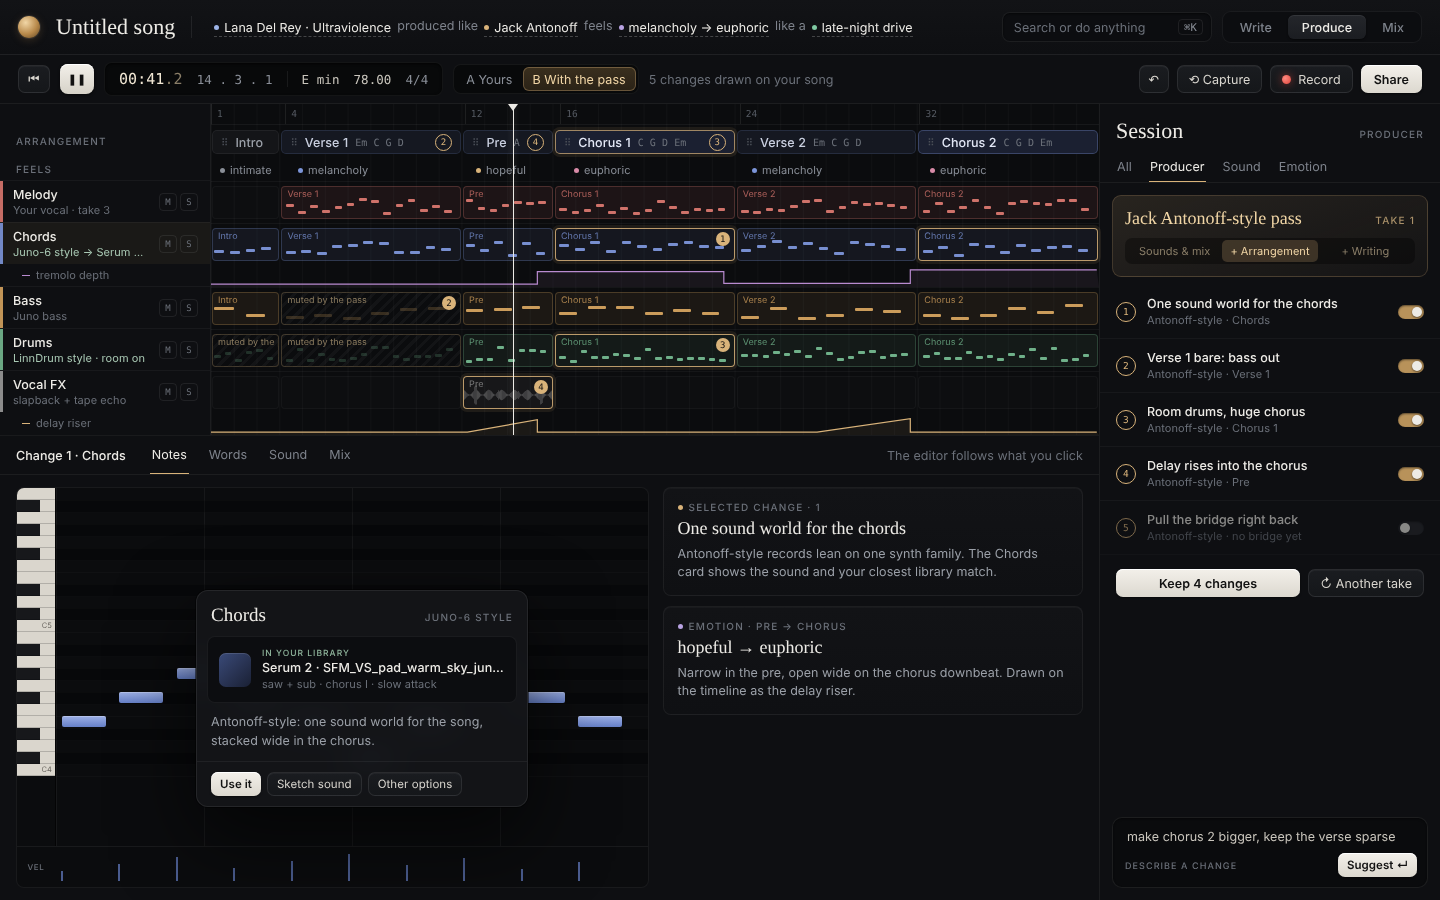
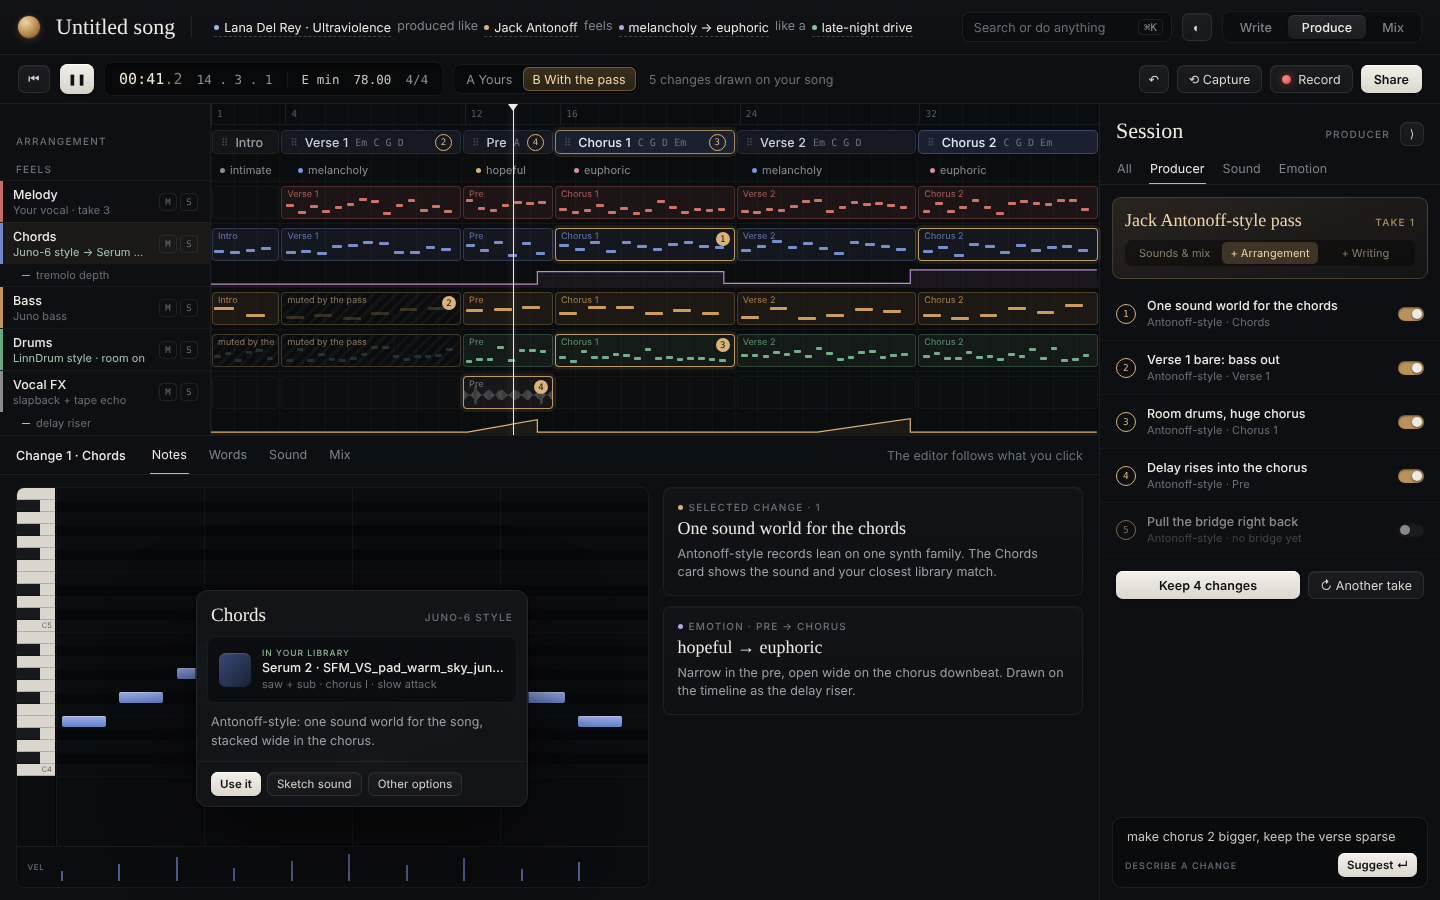
Design: five switchable themes (tokens in themes.json) and a collapsible Session panel
Claude-Session: https://claude.ai/code/session_01Gwi5mznyCGAVwjhLcrp4R8

diff --git a/docs/design/merged/reference.dc.html b/docs/design/merged/reference.dc.html
@@ -37,6 +37,7 @@ button{cursor:pointer}
     </div>
     <div style="margin-left: auto; display: flex; align-items: center; gap: 10px">
       <button style="height: 30px; width: 210px; padding: 0 8px 0 11px; border-radius: 8px; border: 1px solid rgba(255,255,255,.07); background: #0C0D10; color: #6B7079; display: flex; align-items: center; justify-content: space-between; box-shadow: inset 0 1px 2px rgba(0,0,0,.5)">Search or do anything<span class="mono" style="font-size: 10.5px; padding: 1px 5px; border-radius: 4px; border: 1px solid rgba(255,255,255,.08); color: #8A8F98">⌘K</span></button>
+      <button class="ghost" aria-label="Theme" title="Theme" style="width: 30px; padding: 0">◐</button>
       <div role="tablist" aria-label="Lens" style="display: flex; padding: 3px; gap: 2px; border-radius: 9px; background: #0C0D10; border: 1px solid rgba(255,255,255,.06)">
         <sc-for list="{{lenses}}" as="l" hint-placeholder-count="3">
           <button role="tab" aria-selected="{{l.on}}" style="height: 24px; padding: 0 14px; border-radius: 6px; border: 0; background: {{l.bg}}; color: {{l.ink}}; font-weight: 500; box-shadow: {{l.sh}}">{{l.name}}</button>
@@ -242,8 +243,20 @@ button{cursor:pointer}
     </main>
 
     <!-- 6 · session panel -->
-    <aside aria-label="Session" style="width: 340px; flex-shrink: 0; border-left: 1px solid rgba(255,255,255,.06); background: #0E0F12; display: flex; flex-direction: column">
-      <div style="padding: 14px 16px 0; display: flex; justify-content: space-between; align-items: baseline"><span class="serif" style="font-size: 22px">Session</span><span class="sm">{{feedNote}}</span></div>
+    <aside aria-label="Session" style="width: {{asideW}}px; flex-shrink: 0; border-left: 1px solid rgba(255,255,255,.06); background: #0E0F12; display: flex; flex-direction: column">
+      <sc-if value="{{rail}}" hint-placeholder-val="{{false}}">
+        <div style="display: flex; flex-direction: column; align-items: center; gap: 6px; padding: 12px 0; height: 100%; box-sizing: border-box">
+          <button class="ghost xs" aria-label="Open the Session panel" style="width: 28px; padding: 0">⟨</button>
+          <span style="width: 22px; height: 1px; background: rgba(255,255,255,.06); margin: 6px 0"></span>
+          <sc-for list="{{rail}}" as="r" hint-placeholder-count="4">
+            <button title="{{r.name}}" style="position: relative; width: 34px; height: 34px; border-radius: 9px; border: 1px solid rgba(255,255,255,.06); background: #121316; color: {{r.color}}; font-size: 14px">{{r.icon}}<span class="mono" style="position: absolute; right: -4px; top: -4px; min-width: 15px; height: 15px; border-radius: 999px; background: {{r.color}}; color: #141210; font-size: 9px; display: flex; align-items: center; justify-content: center">{{r.n}}</span></button>
+          </sc-for>
+          <button title="Describe a change" style="margin-top: auto; width: 34px; height: 34px; border-radius: 9px; border: 1px solid rgba(255,255,255,.08); background: #0A0B0D; color: #D9B37A">✦</button>
+        </div>
+      </sc-if>
+      <sc-if value="{{full}}" hint-placeholder-val="{{true}}">
+      <div style="display: flex; flex-direction: column; height: 100%">
+      <div style="padding: 14px 16px 0; display: flex; justify-content: space-between; align-items: baseline"><span class="serif" style="font-size: 22px">Session</span><span style="display: flex; align-items: center; gap: 10px"><span class="sm">{{feedNote}}</span><button class="ghost xs" aria-label="Collapse the Session panel" title="Collapse (⌥⌘S)" style="width: 24px; padding: 0">⟩</button></span></div>
       <div style="display: flex; gap: 16px; padding: 0 16px; margin-top: 8px; border-bottom: 1px solid rgba(255,255,255,.06)">
         <sc-for list="{{filters}}" as="f" hint-placeholder-count="4"><button style="height: 30px; padding: 0 1px; border: 0; border-bottom: 1.5px solid {{f.line}}; background: transparent; color: {{f.ink}}">{{f.name}}</button></sc-for>
       </div>
@@ -272,14 +285,37 @@ button{cursor:pointer}
         <input aria-label="Describe a change" value="{{ask}}" style="background: transparent; border: 0; color: #C9C5BC; outline: none">
         <div style="display: flex; justify-content: space-between; align-items: center"><span class="sm" style="font-size: 9px">Describe a change</span><button class="prim xs">Suggest ↵</button></div>
       </div>
+      </div>
+      </sc-if>
     </aside>
   </div>
+  <sc-if value="{{themes}}" hint-placeholder-val="{{false}}">
+    <div role="dialog" aria-label="Theme" style="position: absolute; right: 196px; top: 50px; width: 470px; border-radius: 12px; background: rgba(20,21,24,.94); backdrop-filter: blur(14px); border: 1px solid rgba(255,255,255,.08); box-shadow: 0 30px 80px rgba(0,0,0,.65), 0 0 0 1px rgba(0,0,0,.5); z-index: 5; overflow: hidden">
+      <div style="padding: 13px 14px 4px; display: flex; justify-content: space-between; align-items: baseline"><span class="serif" style="font-size: 19px">Theme</span><span class="sm">Saved on this computer</span></div>
+      <div style="display: grid; grid-template-columns: repeat(3, 1fr); gap: 8px; padding: 10px 12px">
+        <sc-for list="{{themes}}" as="t" hint-placeholder-count="5">
+          <div style="border-radius: 9px; padding: 5px; border: 1.5px solid {{t.ring}}; background: rgba(0,0,0,.2)">
+            <div style="height: 62px; border-radius: 6px; background: {{t.bg}}; position: relative; overflow: hidden; border: 1px solid rgba(255,255,255,.06)">
+              <span style="position: absolute; left: 6px; top: 6px; right: 26px; height: 7px; border-radius: 2px; background: {{t.panel}}"></span>
+              <span style="position: absolute; right: 6px; top: 6px; width: 16px; height: 7px; border-radius: 2px; background: {{t.accent}}"></span>
+              <span style="position: absolute; left: 6px; top: 20px; width: 42%; height: 12px; border-radius: {{t.r}}px; background: {{t.c1}}"></span>
+              <span style="position: absolute; left: 50%; top: 20px; width: 40%; height: 12px; border-radius: {{t.r}}px; background: {{t.c2}}; box-shadow: 0 0 0 1px {{t.accent}}"></span>
+              <span style="position: absolute; left: 6px; top: 37px; width: 60%; height: 12px; border-radius: {{t.r}}px; background: {{t.c3}}"></span>
+              <span style="position: absolute; left: 6px; bottom: 5px; font-family: {{t.font}}; font-size: 11px; color: {{t.ink}}">Aa</span>
+            </div>
+            <div style="display: flex; justify-content: space-between; align-items: center; padding: 6px 3px 2px"><span style="font-size: 11.5px">{{t.name}}</span><span style="font-size: 10px; color: #D9B37A">{{t.on}}</span></div>
+          </div>
+        </sc-for>
+      </div>
+      <div style="padding: 10px 14px; border-top: 1px solid rgba(255,255,255,.06); display: flex; justify-content: space-between; align-items: center; color: #9BA0A8"><span>Follow the system: light by day, dark at night</span><span style="width: 26px; height: 14px; border-radius: 999px; background: #24262B; position: relative; box-shadow: inset 0 1px 2px rgba(0,0,0,.5)"><span style="position: absolute; top: 2px; left: 2px; width: 10px; height: 10px; border-radius: 50%; background: #EDEBE6"></span></span></div>
+    </div>
+  </sc-if>
 </div>
 </x-dc>
 <script type="text/x-dc" data-dc-script data-props='{"$preview":{"width":1440,"height":900}}'>
 class Component extends DCLogic {
   renderVals() {
-    var LENS = '__LENS__'; var EXTRA = '__EXTRA__'; var L = EXTRA === 'loops';
+    var LENS = '__LENS__'; var EXTRA = '__EXTRA__'; var L = EXTRA === 'loops'; var COLL = EXTRA === 'collapsed';
     var P = LENS === 'produce', W = LENS === 'write', M = LENS === 'mix';
     var BRASS = '#D9B37A';
     var C = { prod: BRASS, doc: '#9DB4E8', snd: '#7FC9A2', emo: '#B9A3E3', mix: '#7FC9A2', loop: '#6CC3C3' };
@@ -355,8 +391,11 @@ class Component extends DCLogic {
       : W ? [F(1, 'doc', '“blue” lands on a weak beat', 'Song doctor', 'Verse 1', null, 'Fix'), F(2, 'doc', 'Hook shares the verse’s top note', 'Song doctor', 'Chorus 1', null, 'Lift'), F(3, 'doc', 'Write a bridge from its neighbours', 'Fill this gap', 'after Chorus 2', null, 'Write'), F(4, 'emo', 'Brighten one chord in the Pre', 'Emotion', 'Pre', null, 'Try')]
       : [F(1, 'mix', 'Bass vanishes on phones', 'Mix check', 'Chorus 1', null, 'Fix'), F(2, 'mix', 'Last chorus 2 dB under reference', 'Reference', 'Chorus 2', null, 'Match'), F(3, 'prod', 'Room on drums and backing vocals', 'Antonoff-style', 'whole song', null, 'Add'), F(4, 'emo', 'Gain lift on the euphoric downbeat', 'Emotion', 'Chorus 1', null, 'Draw')];
     var levels = [['Sounds & mix'], ['+ Arrangement', 1], ['+ Writing']].map(function (l) { var on = !!l[1]; return { name: l[0], bg: on ? 'rgba(217,179,122,.22)' : 'transparent', ink: on ? '#F1D6A6' : '#8A7E68' }; });
-    var pop = P && !L ? { title: 'Chords', sub: 'Juno-6 style', top: 486, lib: 'Serum 2 · SFM_VS_pad_warm_sky_juno106', recipe: 'saw + sub · chorus I · slow attack', why: 'Antonoff-style: one sound world for the song, stacked wide in the chorus.' } : false;
+    var pop = P && !L && !COLL ? { title: 'Chords', sub: 'Juno-6 style', top: 486, lib: 'Serum 2 · SFM_VS_pad_warm_sky_juno106', recipe: 'saw + sub · chorus I · slow attack', why: 'Antonoff-style: one sound world for the song, stacked wide in the chorus.' } : false;
+    var rail = COLL ? [['✎', 'Producer · 5 ideas', '#D9B37A', 5], ['✚', 'Song doctor · 2', '#9DB4E8', 2], ['◎', 'Sound finder · 1', '#7FC9A2', 1], ['♡', 'Emotion · 1', '#B9A3E3', 1]].map(function (r) { return { icon: r[0], name: r[1], color: r[2], n: r[3] }; }) : false;
+    var themes = COLL ? [['Studio Black', '#0A0B0D', '#16181C', '#D9B37A', 'rgba(124,149,217,.35)', 'rgba(124,149,217,.2)', 'rgba(217,119,111,.3)', 5, "'Instrument Serif'", '#EDEBE6', 1], ['Console', '#1B1B1B', '#3A3A3A', '#FFA22B', '#6AA6FF', '#FF6B5E', '#F7BA4C', 1, "'Inter'", '#E8E8E8'], ['Warm studio', '#120E0B', '#2A221B', '#E0915A', 'rgba(147,168,189,.4)', 'rgba(224,145,90,.3)', 'rgba(217,128,106,.35)', 5, "'Fraunces'", '#F3E9DA'], ['Daylight', '#F2F2F7', '#FFFFFF', '#0A84FF', 'rgba(88,86,214,.2)', 'rgba(52,199,89,.22)', 'rgba(255,59,48,.18)', 7, "'Inter'", '#1C1C1E'], ['Riso zine', '#EFE8DA', '#FBF7EE', '#FF4F8B', '#C9D4FF', '#FFD23F', 'rgba(255,79,139,.35)', 0, "'DM Serif Display'", '#1A1A1A']].map(function (t) { return { name: t[0], bg: t[1], panel: t[2], accent: t[3], c1: t[4], c2: t[5], c3: t[6], r: t[7], font: t[8], ink: t[9], ring: t[10] ? '#D9B37A' : 'transparent', on: t[10] ? '✓ On' : '' }; }) : false;
     return {
+      rail: rail, full: !COLL, asideW: COLL ? 58 : 340, themes: themes,
       recipe: recipe, lenses: lenses, sections: sections, tracks: tracks, drawer: drawer, roll: roll, keys: keys, strips: strips, side: side, filters: filters, feed: feed, levels: levels, pop: pop,
       ab: P && !L, snaps: M, splice: L, ghosts: ghosts, loop: loop, cmdk: cmdk, rollFoot: P ? 'Vel' : 'Words',
       transportNote: L ? '' : P ? '5 changes drawn on your song' : '',

diff --git a/docs/design/merged/README.md b/docs/design/merged/README.md
@@ -87,8 +87,33 @@ the Sound drawer appear, and they fold away again when the last loop or Bridge i
 - Popovers and ⌘K: translucent dark with blur, a hairline border and a large soft shadow.
 - No bright saturated blocks anywhere. A chorus is a slightly deeper tint than a verse, not a bright blue slab.
 
+## Themes (agreed 6 Nov 2026)
+Five themes. Studio Black is the default (described under "Look" above). The others are Console (Pro Tools meets Ableton),
+Warm studio, Daylight (modern Apple/iOS, light) and Riso zine (creative, light). Pictures: `theme-*.png` and
+`6-Themes-and-collapsed-panel.png`. Every value is in **`themes.json`**.
+- Build the interface on CSS variables (`--st-bg`, `--st-accent`, `--st-melody`, `--st-radius`, `--st-font-ui`, …), one per
+  token in themes.json. No colour, radius or font stays hard-coded in a rule. A theme is just a `data-theme` attribute on
+  `<html>` that sets those variables. Track colours, the clip fill strength (`clipAlpha`) and note colour on clips (`noteOnClip`)
+  are tokens too, so Console's solid clips work.
+- Some themes change shape, not just colour: Console uses square corners and bevelled buttons; Daylight uses pill buttons, larger radii
+  and green switches; Riso zine uses ink outlines, hard offset shadows and a halftone background. Do this with per-theme rules
+  on a few classes (`.ghost`, `.prim`, popovers, switches). Don't fork the markup.
+- Picker: a ◐ button in the header opens the Theme card (a preview tile per theme, the active one ringed) with
+  "Follow the system: light by day, dark at night", which switches between Studio Black and Daylight with the OS appearance.
+- The choice is saved locally (app settings, not the song) and applies at once with no reload. Inside a DAW the plugin window
+  uses the same setting.
+- Fonts: bundle them in the app (no network at runtime). Check each theme for contrast (text on panel ≥ 4.5:1).
+
+## Collapsible Session panel
+- A ⟩ button in the Session header (and ⌥⌘S) collapses the panel to a 58px rail. The timeline and drawer take the space.
+- The rail shows one icon per helper with a count badge (Producer 5, Song doctor 2, Sound 1, Emotion 1). Clicking an icon
+  opens the panel filtered to that helper. ✦ at the bottom opens "Describe a change". ⟨ reopens the panel.
+- The numbered pins stay on the timeline while the panel is collapsed. Clicking a pin opens the panel at that item.
+- The open/closed state is saved locally, per lens (e.g. open in Produce, closed in Mix).
+
 ## Order to build
-1. Look tokens (colours, type, buttons, tabs) across the existing UI. This is the cheapest and most visible step.
+1. Look tokens as CSS variables across the existing UI, Studio Black first, then the theme picker and the other
+   four themes from `themes.json`. This is the cheapest and most visible step.
 2. Header with the recipe sentence and lens switch, plus the transport. Remove the second toolbar.
 3. Lenses on the one timeline. Move Producer pass, Emotion & vibe and Real sounds onto it and into the Session
    panel, the drawer and popovers. Delete their separate screens and the duplicate timelines. Replace the 11-tab dock with

diff --git a/AGENTS.md b/AGENTS.md
@@ -6,7 +6,7 @@ how to build and test, the sound engine rules, and FL Studio lessons learned the
 ## New: the merged design (6 Nov 2026), build this next
 Jamie approved a redesign that joins the app into one screen: one timeline, Write / Produce / Mix lenses,
 one drawer, one Session panel, popovers, a premium look, borrowed DAW ideas (Capture, takes, ghost notes,
-⌘K actions, section drag, mix snapshots), and loops plus Splice Bridge support that only appears when used.
+⌘K actions, section drag, mix snapshots), and loops plus Splice Bridge support that only appears when used, five switchable themes (`docs/design/merged/themes.json`) and a collapsible Session panel.
 **Read `docs/design/merged/README.md`.** It is the spec, with pictures and a build order. Where it disagrees with
 the older `docs/design/N-*.png` screens or the design notes below, the merged design wins.
 
